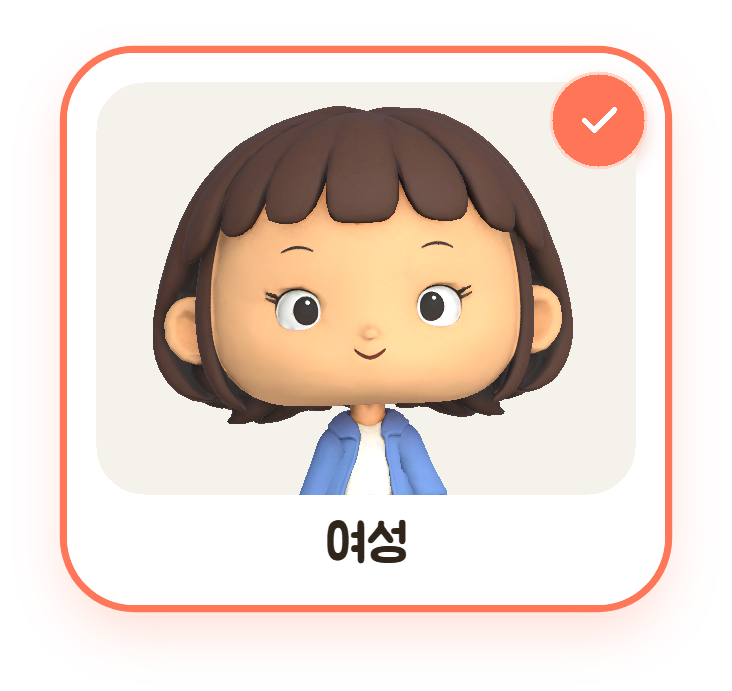
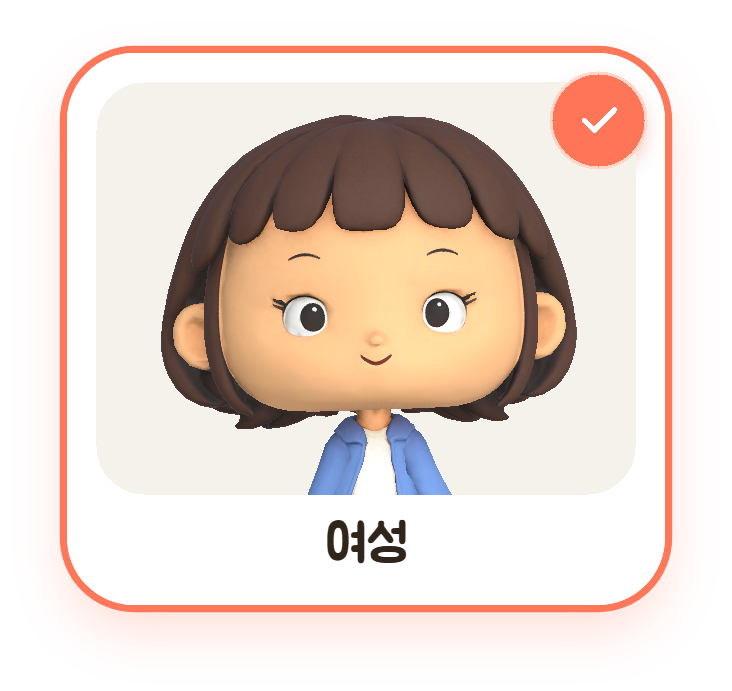
fix(frontend): 선택 카드의 남녀 머리 크기와 위 여백 통일 [S15P31A305-530]

diff --git a/frontend/UnityClient/Assets/Scripts/Editor/Onboarding/PlayerPortraitBuilder.cs b/frontend/UnityClient/Assets/Scripts/Editor/Onboarding/PlayerPortraitBuilder.cs
@@ -2,6 +2,7 @@ using System;
 using System.Collections.Generic;
 using System.IO;
 using System.Linq;
+using A305.EditorTools.Characters;
 using A305.EditorTools.Common;
 using A305.EditorTools.Tripo;
 using A305.Player;
@@ -91,17 +92,26 @@ namespace A305.EditorTools.Onboarding
                 surfaces.Add((mesh, part.transform, mesh.vertices));
                 skin.enabled = false;
             }
-            Vector3 front = TripoModelPreview.GetViewDirection(model, 0);
+            Bounds head = CharacterHeadProportions.HeadBounds(model);
+            Vector3 front = Vector3
+                .ProjectOnPlane(TripoModelPreview.GetViewDirection(model, 0), Vector3.up)
+                .normalized;
             var camera = new GameObject("Portrait camera").AddComponent<Camera>();
             camera.orthographic = true;
-            camera.orthographicSize = .64f;
+            // 캐릭터 높이·머리 위치 대신 사진에서 머리가 차지하는 높이와 위 여백을 맞춘다.
+            camera.orthographicSize = head.size.y / (2 * .76f);
             camera.clearFlags = CameraClearFlags.SolidColor;
             camera.backgroundColor = new Color(.96f, .95f, .92f);
             camera.nearClipPlane = .01f;
             camera.farClipPlane = 20;
-            var focus = Vector3.up * 1.08f;
+            var focus = new Vector3(
+                head.center.x,
+                head.max.y - camera.orthographicSize * .84f,
+                head.center.z
+            );
             camera.transform.position = focus + front * 5;
             camera.transform.LookAt(focus);
+            Debug.Log($"카드 촬영 구도: {id}, 머리 {head}, 화면 높이 비율 0.76, 위 여백 0.08");
             var light = new GameObject("Portrait light").AddComponent<Light>();
             light.type = LightType.Directional;
             light.intensity = .9f;

diff --git a/frontend/UnityClient/Assets/Scripts/Onboarding/README.md b/frontend/UnityClient/Assets/Scripts/Onboarding/README.md
@@ -74,7 +74,7 @@
 
 ## 확인 방법
 
-캐릭터 선택 사진은 실제 남녀 플레이어의 정면 모습으로 만듭니다. 기본 상태는 편안한 입 모양이고, 선택하면 미소·코랄 테두리·체크 배지가 있는 사진으로 바뀝니다. **Tools → A305 → Onboarding → Capture Player Portraits**로 `Art/UI/Entry`의 게스트·가입 카드 8장을 다시 촬영할 수 있습니다. 촬영용 메시 복사본의 입만 변형하므로 게임 캐릭터 원본과 런타임 표정에는 영향을 주지 않습니다. 기존 `ChoiceArt` 연결과 이미지 GUID를 유지합니다.
+캐릭터 선택 사진은 실제 남녀 플레이어의 정면 모습으로 만듭니다. 기본 상태는 편안한 입 모양이고, 선택하면 미소·코랄 테두리·체크 배지가 있는 사진으로 바뀝니다. 머리 높이는 사진 영역의 76%, 위 여백은 8%로 맞춰 캐릭터를 바꿔도 카드 속 크기와 위치가 달라지지 않게 촬영합니다. **Tools → A305 → Onboarding → Capture Player Portraits**로 `Art/UI/Entry`의 게스트·가입 카드 8장을 다시 촬영할 수 있습니다. 촬영용 메시 복사본의 입만 변형하므로 게임 캐릭터 원본과 런타임 표정에는 영향을 주지 않습니다. 기존 `ChoiceArt` 연결과 이미지 GUID를 유지합니다.
 
 1. **Tools → A305 → Onboarding → Build**로 프리팹·설정·씬을 만듭니다. 처음이면 **UI → Set Up Fonts**를 먼저 실행합니다.
 2. 백엔드를 local 프로필로 실행하고 `Scenes/Sandbox/OnboardingSandbox.unity`를 Play합니다.
